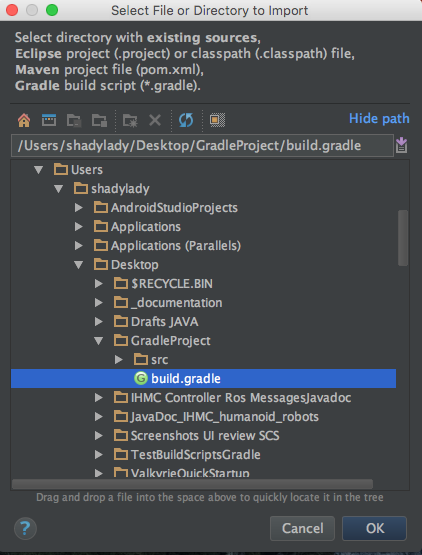
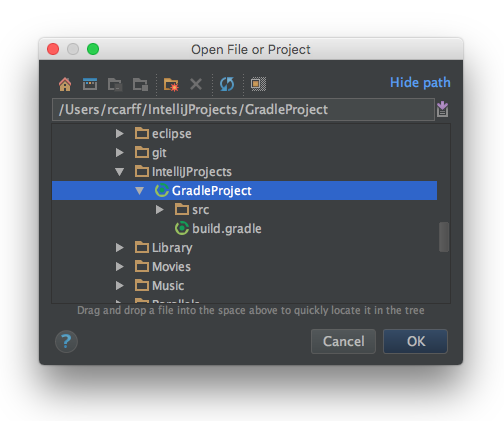
- Updated the images and documentation for the IntelliJ IDEA Quickstart documentation

diff --git a/quickstart/03-new-class-intellij.md b/quickstart/03-new-class-intellij.md
@@ -8,39 +8,41 @@ tab: IntelliJ
 
 ---
 
-# Open the Java Perspective
-
-Once you have imported your build.gradle file and have a new project window open. Your "Project View" should look like that:
+Once GradleProject has been imported into IntelliJ IDEA, the project window should open.
 
 ![new project window](/resources/images/quickstart/intellij/new-project-view.png)
 
+# Open the "Gradle projects" Tool Window
 
-# Check your project's list of dependencies
+#### 1. Hide/Show Tools tabs
 
-On the upper right corner you should see a Gradle logo, click on it to expand the "Gradle Projects" tool window 
+In the lower left corner of the project window you will see the Hide/Show tools icon.  If you do not see the `Gradle` tab on the right select this icon to show it.
 
-![gradle menu window](/resources/images/quickstart/intellij/gradle-menu.png)
+#### 2. Open the "Gradle projects" Tool Window
 
-You should see a full list of dependencies under the Dependencies folder.   
-These libraries have automatically been downloaded from the remote repositories specified in your build.gradle script and linked to your project.
+On the right of the project window you should see a Gradle tab, select it to expand the "Gradle projects" tool window.
 
-![gradle menu dependencies loaded](/resources/images/quickstart/intellij/gradle-menu-dependencies-loaded.png) 
- 
+#### 3. List Gradle Dependencies
 
-# Create a New Class 
+Select the triangle next to `Dependencies` in the "Gradle projects" tool window.  You should now see a full list of dependencies. These libraries have been automatically downloaded from the remote repositories specified in your build.gradle script and linked to your project.
 
-Java classes are organized by "packages". Many IHMC packages start with `us.ihmc`, you can use your organization, a personal website, or whatever you'd like as your package. 
-Here we're going to use `us.ihmc.demo` as the package, and `ValkyrieDemo` as the name of the class. 
+You can hide/show the "Gradle projects" tool window by selecting the `Gradle` tab on the right.
 
-In the project tool window, right click on the `java` folder, and create a new package.
- 
-![create new package](/resources/images/quickstart/intellij/create-new-package.png)
+# Create a New Class to Run the Valkyrie Simulation
 
-When this new package is created, right click on it and select `new > Java class`, name it `ValkyrieDemo`   
+Java classes are organized by "packages". Many IHMC packages start with `us.ihmc`, you can use your organization, a personal website, or whatever you'd like as your package. Here we're going to use `us.ihmc.demo` as the package, and `ValkyrieDemo` as the name of the class. 
+
+In the project tool window on the right, right click on the `java` folder, and select `Java Class` under the `New` menu.
+
+![create new class](/resources/images/quickstart/intellij/select-new-java-class.png)
+
+Enter `us.ihmc.demo.ValkyrieDemo` for the `Name` field and select `OK`.
 
 ![create new class](/resources/images/quickstart/intellij/create-new-class.png)
 
-Fill in the class to look like the following:
+# ValkyrieDemo Class
+
+You should now see a skeleton of your ValkyrieDemo class.  Replace the skeleton text with the following java source code:
 
 {% highlight java %}
 package us.ihmc.demo;

diff --git a/quickstart/02-setup-gradle-project-intellij.md b/quickstart/02-setup-gradle-project-intellij.md
@@ -1,35 +1,38 @@
 ---
 
-title: Setup GradleProject In Your IDE
-full-title: Setup GradleProject In Your IDE
+title: Import GradleProject
+full-title: Import GradleProject
 order: 2
 category: quickStart
 tab: IntelliJ
 
 ---
 
-IntelliJ IDEA supports Gradle SDK version 1.2. and later.
-The Gradle plugin is bundled with IntelliJ IDEA and activated by default. 
+# Gradle Plugin Support
 
-If the plugin is not activated, enable it on the `Plugins` tab of the `File > Settings` (Windows and Ubuntu) or `IntelliJ IDEA > Preferences`(OSX) menu.
+IntelliJ IDEA supports Gradle SDK version 1.2 and later, and the Gradle plugin is bundled with IntelliJ IDEA and activated by default.  If the plugin is not activated, enable it on the `Plugins` tab of the `File > Settings` (Windows and Ubuntu) or `IntelliJ IDEA > Preferences`(OSX) menu.
 
-Gradle files are marked with ![icon gradle](/resources/images/quickstart/icon_gradle.png) icon.
+You can find more detailed information about Gradle and IntelliJ on [IntelliJ's website](https://www.jetbrains.com/help/idea/2016.1/getting-started-with-gradle.html). 
 
-In addition to this tutorial, you can find more information about Gradle and IntelliJ on [IntelliJ's website](https://www.jetbrains.com/help/idea/2016.1/getting-started-with-gradle.html). 
+# Opening/Importing GradleProject
 
+If you have just started IntelliJ IDEA, you will be presented with the Welcome screen.
 
-![note](/resources/images/attention-40.png) **NOTE: At this point of the tutorial you can either chose to create a new Gradle Project or use Importing Project from Gradle model.** 
+![welcome screen](/resources/images/quickstart/intellij/welcomeScreen.png)
 
-# Importing Project from Gradle Model
+Choose `Open` from the Welcome screen, or if IntelliJ IDEA is already open choose `File/Open` from the menu bar.
 
-On the main menu, select `File > Open`, from the dialog that opens select `build.gradle` file and click `OK`.  
 ![import build gradle project](/resources/images/quickstart/intellij/open-build-gradle.png)
 
-Specify few settings before importing the project
+From the `Open File or Project` dialog traverse the directory structure and select the `GradleProject` folder or the `build.gradle` file and select `OK`.
+
 ![import build gradle project](/resources/images/quickstart/intellij/import-project-from-gradle.png)
 
-Wait few minutes IntelliJ IDEA will import Gradle project even if the project was not opened or imported before.  
+If you have not already setup Gradle in IntelliJ IDEA, you will have to enter values for `Gradle home:` and `Gradle JVM:`.  Once this is done, select `OK`.
+
 ![downloading dependencies](/resources/images/quickstart/intellij/import-build-gradle.png)
+
+Wait few minutes while IntelliJ IDEA imports GradleProject and obtains the dependencies specified in the `build.gradle` file.
 
 
 

diff --git a/quickstart/04-run-valkyrie-intellij.md b/quickstart/04-run-valkyrie-intellij.md
@@ -1,7 +1,7 @@
 ---
 
-title: Run Configuration ValkyrieDemo
-full-title: Run Configuration ValkyrieDemo
+title: ValkyrieDemo Run Configuration
+full-title: Create the Run Configuration for ValkyrieDemo
 order: 4
 category: quickStart
 tab: IntelliJ
@@ -16,17 +16,20 @@ Right click on `ValkyrieDemo.java` in your project window, and select  `Run 'Val
 
 ![NewRunConfiguration](/resources/images/quickstart/intellij/run-valkyrie-demo.png)
 
-Quit the java application window and select `Edit Configurations...` from the menu bar at the top.
+The simulation may or may not start up depending on your system, but for now quit the java application window or select the `Stop` button in thelower right.
 
+![NewRunConfiguration](/resources/images/quickstart/intellij/stop-valkyrie-demo.png)
 
-![RunConfigurationVMSettings](/resources/images/quickstart/intellij/edit-run-configuration-menu.png)
+# Edit the Run Configuration
 
-
-Make sure that "ValkyrieDemo" name is selected under "Application".  
-Choose the `Configuration` tab and add `-Xms4096m -Xmx4096m` to the `VM Options:` text area.  Now click `Apply` to save your configuration.  
+Now select `Run/Edit Configurations...` from the menu to open the `Run/Debug Configurations` dialog.
 
 ![RunConfigurationVMSettings](/resources/images/quickstart/intellij/run-configuration.png)
 
-You can now click ![RunConfigurationVMSettings](/resources/images/quickstart/intellij/run-icon.png) from the menu bar at the top to run the simulation.
+Make sure that `ValkyrieDemo` is selected under `Application`.  Now choose the `Configuration` tab, then in the `VM Options:` text field enter `-Xms4096m -Xmx4096m`.  Finally, select `OK` to save your configuration and close the dialog.
+
+# Run the ValkyrieDemo Simulation
+
+You can now run the ValkyrieDemo simulation by right-clicking `ValkyrieDemo.java` and selecting `Run 'ValkyrieDemo.main()'` or by selecting the run icon ![RunConfigurationVMSettings](/resources/images/quickstart/intellij/run-icon.png) from the menu bar at the top to run the simulation while `ValkyrieDemo` is the currently selected run configuration.
 
 

diff --git a/quickstart/00-pre-reqs-intellij.md b/quickstart/00-pre-reqs-intellij.md
@@ -10,5 +10,8 @@ tab: IntelliJ
 # 1. Install Java JDK
 - [Java JDK 7 or Higher is required](/documentation/00-installation/00-java/00-installing-java)
 
-# 2. Install IntelliJ
+# 2. Install Gradle
+- [Gradle 2.10+](/documentation/00-installation/01-gradle/00-installing-gradle)
+
+# 3. Install IntelliJ
 - [IntelliJ IDEA 14+](https://www.jetbrains.com/idea/download/) (Ultimate or Community is fine)

diff --git a/quickstart/04-run-valkyrie-eclipse.md b/quickstart/04-run-valkyrie-eclipse.md
@@ -1,7 +1,7 @@
 ---
 
-title: Run Configuration ValkyrieDemo
-full-title: Run Configuration ValkyrieDemo
+title: ValkyrieDemo Run Configuration
+full-title: Create the Run Configuration for ValkyrieDemo
 order: 4
 category: quickStart
 tab: Eclipse

diff --git a/quickstart/02-setup-gradle-project-eclipse.md b/quickstart/02-setup-gradle-project-eclipse.md
@@ -1,7 +1,7 @@
 ---
 
-title: Setup GradleProject In Your IDE
-full-title: Setup GradleProject In Your IDE
+title: Import GradleProject
+full-title: Import GradleProject
 order: 2
 category: quickStart
 tab: Eclipse

diff --git a/documentation/00-installation/01-gradle/00-installing-gradle/000_summary.md b/documentation/00-installation/01-gradle/00-installing-gradle/000_summary.md
@@ -3,5 +3,3 @@
 category: Summary
 
 ---
-
- Summary:installing gradle
